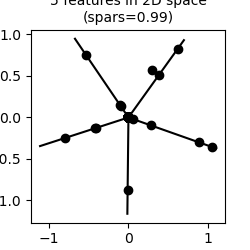
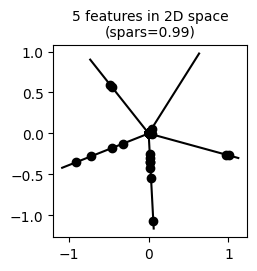
Include training module for TMS models.

Changed region(s): [[0.0, 0.0, 0.98, 0.98], [0.588, 0.252, 0.7, 0.392], [0.0, 0.112, 0.084, 0.168]]

diff --git a/sparse_autoencoder/tms/utils.py b/sparse_autoencoder/tms/utils.py
@@ -18,6 +18,7 @@ def plot_features_in_2d(
         (line,) = ax.plot([0, feat_x], [0, feat_y], color="black", lw=1.5)
 
     if samples_hidden is not None:
+        samples_hidden = samples_hidden.tolist()
         for sample_hidden in samples_hidden:
             (marker,) = ax.plot(
                 [sample_hidden[0]],
@@ -31,6 +32,6 @@ def plot_features_in_2d(
     if title is not None:
         plt.title(title, fontsize=10)
     if save_path is not None:
-        plt.savefig(save_path)
+        plt.savefig(save_path, bbox_inches="tight")
 
     plt.show()
